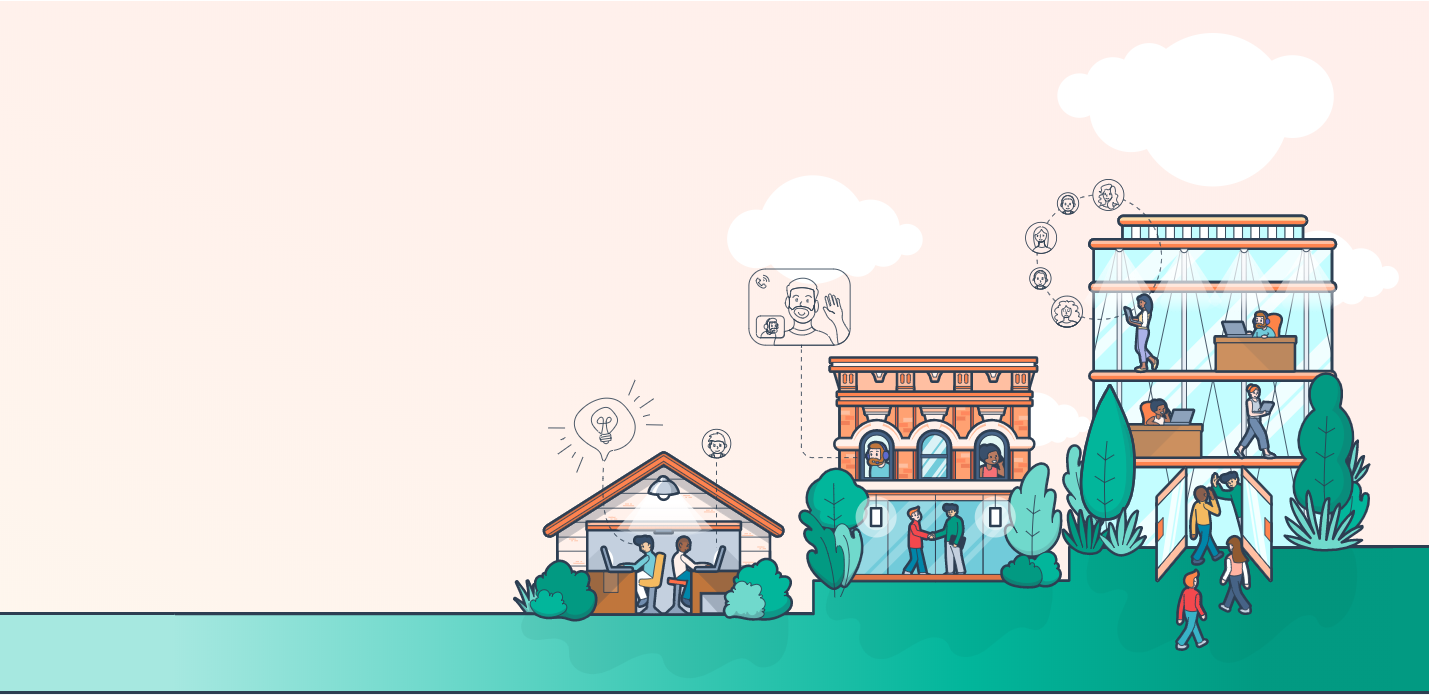
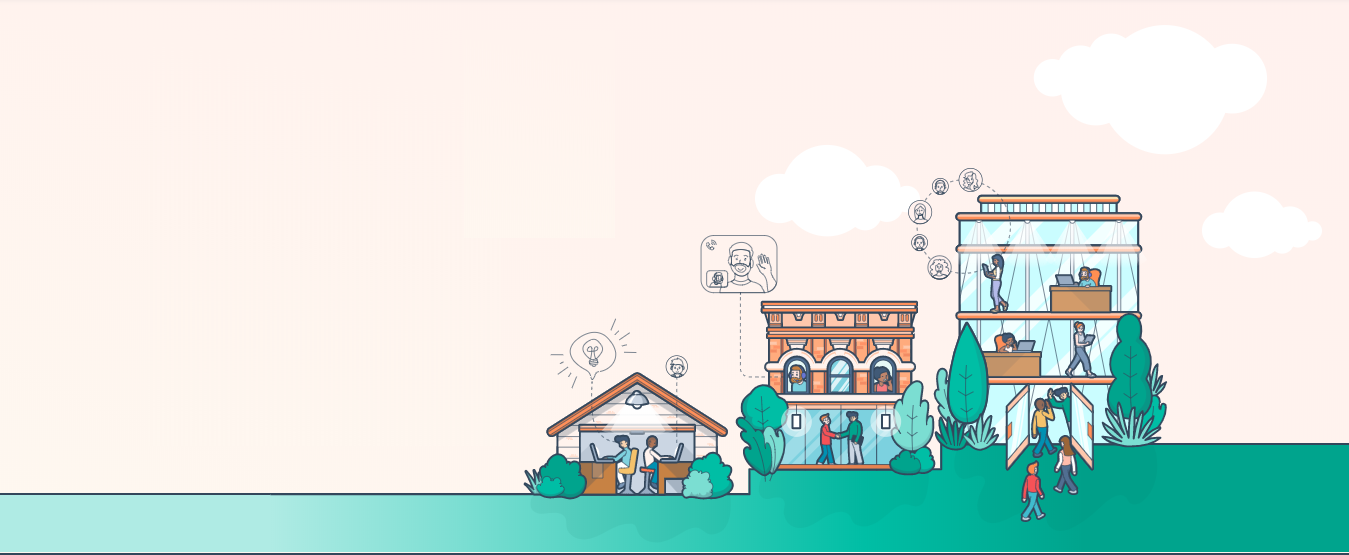
jumbotron

Changed region(s): [[0.0, 0.245, 1.0, 1.0]]

diff --git a/index.html b/index.html
@@ -12,7 +12,7 @@
     <!-- Header  -->
     <header>
       <!-- Prima riga di nav -->
-      <div id="topnav">
+      <nav id="topnav">
         <div class="centratura clearfix">
           <ul class="contacts">
             <li>
@@ -44,9 +44,9 @@
             </li>
           </ul>
         </div>
-      </div>
+      </nav>
       <!-- Seconda riga di nav -->
-      <div id="mainnav">
+      <nav id="mainnav">
         <div class="centratura clearfix">
           <span class="logo">
             <a href="#">
@@ -76,14 +76,25 @@
             </li>
           </ul>
         </div>
-      </div>
+      </nav>
       <!-- Jumbotron -->
-      <div id="jumbotron">
+      <section id="jumbotron">
         <div class="centratura">
-
+          <div class="jumbosez">
+          <h1 class="jumbotitle1">
+            There’s a better way to grow.
+          </h1>
+          <p class="jumbotext">
+            Marketing, sales, and service software that helps your business grow without compromise. Because “good for the business” should also mean “good for the customer.”
+          </p>
+          <a href="#" class="jumbolink">Get HubSpot free</a>
+          <p class="jumbotext">
+            Get started with FREE tools, and upgrade as you grow.
+          </p>
+          </div>
         </div>
 
-      </div>
+      </section>
     </header>
 
     <main>

diff --git a/style.css b/style.css
@@ -9,7 +9,7 @@
 body{
   color: #33475b;
   font-family: "Times New Roman",Arial,sans-serif;
-  line-height: 1.611em;
+  line-height: 2em;
 }
 
 a:link{
@@ -68,10 +68,15 @@ li{
 }
 
 #jumbotron{
-  background-color: pink;
+  background-image: url("img/jumbotron.png");
   width: 100%;
-  min-height: 600px;
+  min-height: 750px;
+  background-position: 50% 75%;
+  background-repeat: no-repeat;
+  background-size: cover;
+  border-bottom: 3px black solid;
 }
+
 
 /* Primo nav parte DX */
 .login{
@@ -134,4 +139,34 @@ a.getfreelink:hover{
   font-size: 25px;
   opacity: .6;
   margin-left: 8px;
+}
+
+/* Jumbotron */
+.jumbosez{
+width: 30%;
+letter-spacing: 1px;
+padding-top: 12%;
+}
+
+.jumbotitle1{
+  font-size: 45px;
+  font-weight: 900;
+}
+
+.jumbotext{
+  font-size: 18px;
+  margin: 10% 0;
+  font-weight: lighter;
+}
+a.jumbolink{
+  color: #fff;
+  background-color: #ff7a59;
+  padding: 1.5em 2em;
+  border-radius: 3px;
+  font-weight: bold;
+}
+.jumbotext:last-child{
+  max-width: 14rem;
+  font-size: 14px;
+  margin: 10% 0 0 0;
 }
